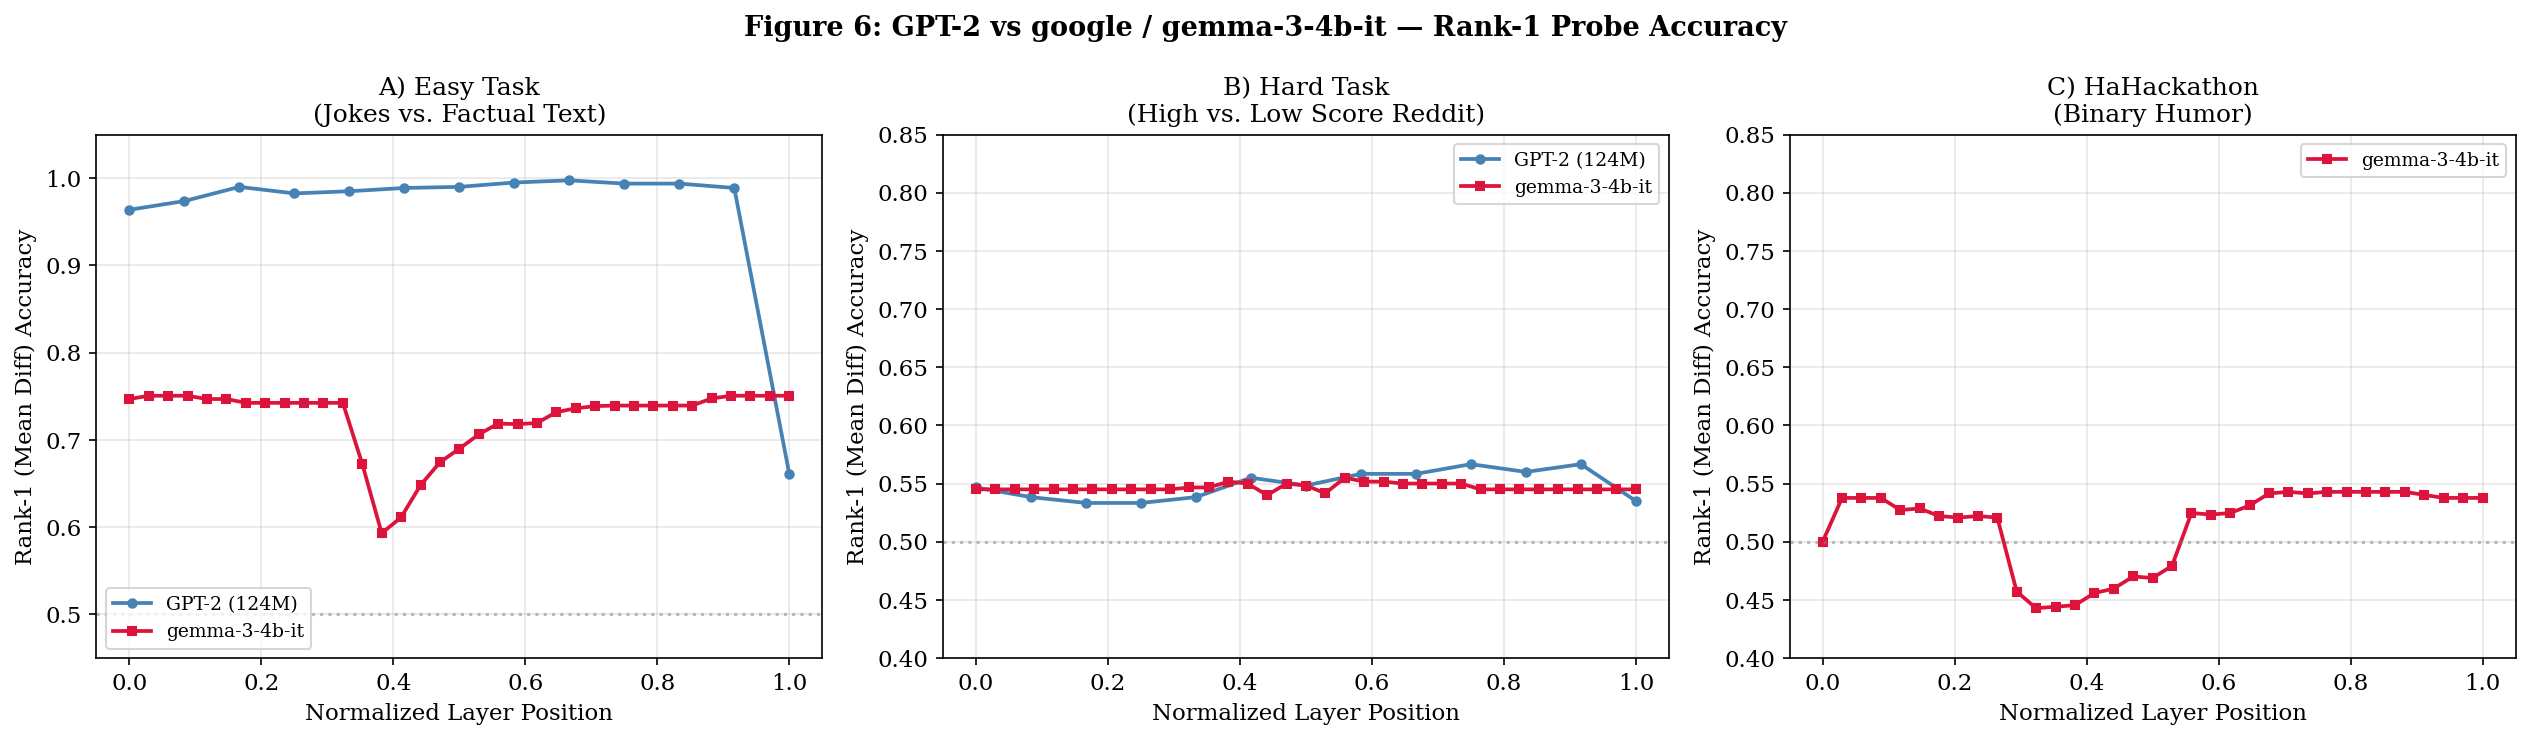
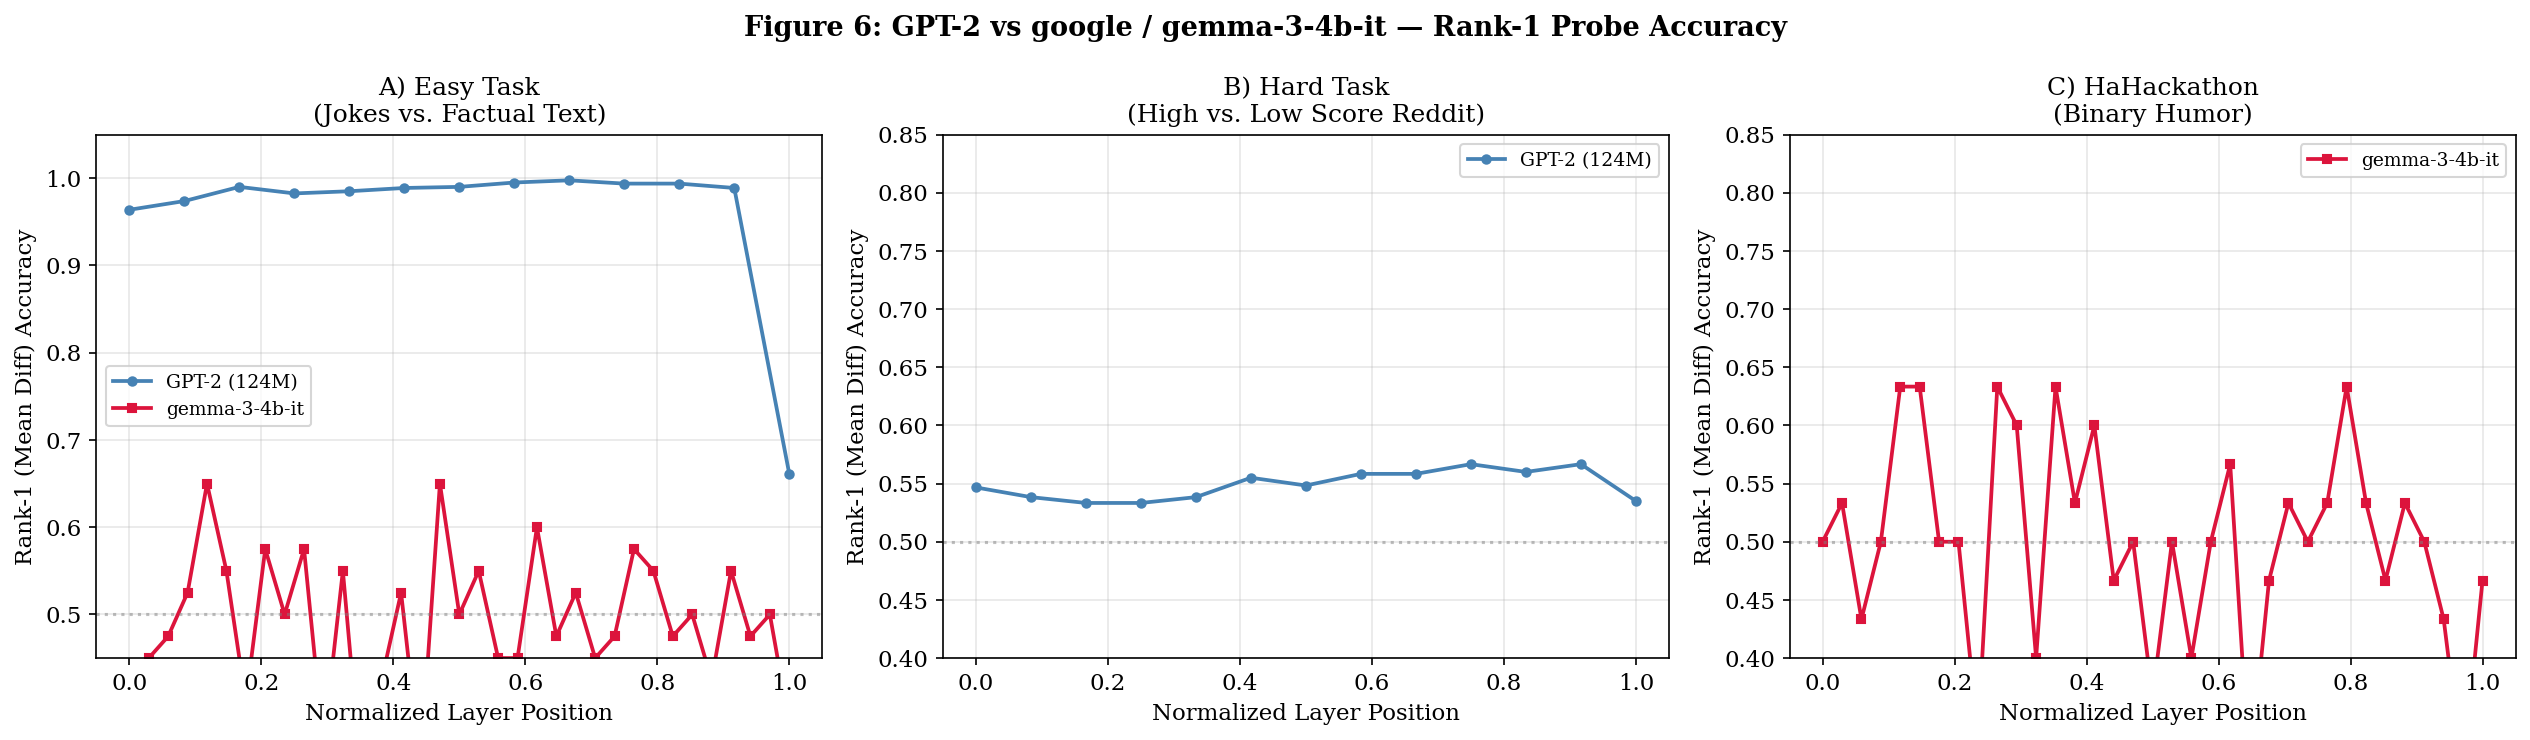
Week 2 writeup and figure renumbering (10=MLP vs LR, 11=scale)
Adds REPORT_WEEK2.md, updated figure6/8 plots, and new figures 10
(MLP vs LR by layer) and 11 (4B vs 12B scale comparison). Renames
from figure9/10 to avoid conflict with partner's figure9_steering.

diff --git a/src/visualize_new.py b/src/visualize_new.py
@@ -295,6 +295,109 @@ def plot_figure8(model_id, new_results):
 
 
 # ---------------------------------------------------------------------------
+# Figure 10: MLP vs LR probe accuracy by layer (HaHackathon)
+# ---------------------------------------------------------------------------
+
+def plot_figure9_mlp_vs_lr(model_id, week2_results):
+    """
+    Two lines: full-rank LR accuracy and MLP accuracy by absolute layer index
+    for the HaHackathon task. Shows that MLP never beats LR.
+    Data from week2_results (which has mlp_probe keys).
+    """
+    haha = week2_results.get("tasks", {}).get("hahackathon", {}).get("probe_by_layer", [])
+    if not haha:
+        print("No HaHackathon week2 data found, skipping Figure 10.")
+        return
+
+    layers = [e["layer"] for e in haha]
+    lr_accs = [e["probes"][-1]["accuracy"] for e in haha]
+    mlp_accs = [e["mlp_probe"]["accuracy"] for e in haha if "mlp_probe" in e]
+
+    if len(mlp_accs) != len(layers):
+        print("mlp_probe missing on some layers, skipping Figure 10.")
+        return
+
+    fig, ax = plt.subplots(figsize=(10, 6))
+
+    ax.plot(layers, lr_accs, "o-", color="steelblue", label="Linear (LR)",
+            markersize=4, linewidth=1.8)
+    ax.plot(layers, mlp_accs, "s--", color="crimson", label="Non-linear (MLP, 256 units)",
+            markersize=4, linewidth=1.8)
+    ax.axhline(y=0.5, color="gray", linestyle="--", linewidth=1, alpha=0.6, label="Chance (0.5)")
+
+    # Annotate peak LR layer
+    peak_idx = int(np.argmax(lr_accs))
+    ax.annotate(
+        f"LR peak: Layer {layers[peak_idx]} ({lr_accs[peak_idx]:.3f})",
+        xy=(layers[peak_idx], lr_accs[peak_idx]),
+        xytext=(layers[peak_idx] + 2, lr_accs[peak_idx] + 0.02),
+        fontsize=9, color="steelblue",
+        arrowprops=dict(arrowstyle="->", color="steelblue", lw=1.2),
+    )
+
+    ax.set_xlabel("Layer Index (absolute)")
+    ax.set_ylabel("Probe Accuracy (HaHackathon)")
+    model_label = model_id.replace("/", " / ")
+    ax.set_title(f"Figure 10: Linear vs. Non-Linear Probe by Layer — {model_label}\n"
+                 f"HaHackathon Task (MLP never beats LR)")
+    ax.set_ylim(0.4, 0.85)
+    ax.legend()
+    ax.grid(True, alpha=0.3)
+
+    plt.tight_layout()
+    out_path = PLOTS_DIR / f"figure10_mlp_vs_lr_{model_slug(model_id)}.png"
+    plt.savefig(out_path, bbox_inches="tight")
+    plt.close()
+    print(f"Saved {out_path.name}")
+
+
+# ---------------------------------------------------------------------------
+# Figure 10: 4B vs 12B HaHackathon accuracy by normalized layer
+# ---------------------------------------------------------------------------
+
+def plot_figure10_scale_comparison(results_4b, results_12b):
+    """
+    HaHackathon full-rank accuracy by normalized layer position (0..1)
+    for Gemma 4B and Gemma 12B. Shows scale doesn't help.
+    """
+    fig, ax = plt.subplots(figsize=(10, 6))
+
+    for results, color, marker, label in [
+        (results_4b,  "steelblue", "o-", "Gemma 3 4B (2560 dim, 35 layers)"),
+        (results_12b, "darkorange", "s-", "Gemma 3 12B (3840 dim, 48 layers)"),
+    ]:
+        haha = results.get("tasks", {}).get("hahackathon", {}).get("probe_by_layer", [])
+        if not haha:
+            continue
+        accs = [e["probes"][-1]["accuracy"] for e in haha]
+        x = np.linspace(0, 1, len(accs))
+        peak_idx = int(np.argmax(accs))
+        ax.plot(x, accs, marker, color=color, label=label, markersize=4, linewidth=1.8)
+        ax.annotate(
+            f"{accs[peak_idx]:.3f}",
+            xy=(x[peak_idx], accs[peak_idx]),
+            xytext=(x[peak_idx] + 0.03, accs[peak_idx] + 0.015),
+            fontsize=9, color=color,
+            arrowprops=dict(arrowstyle="->", color=color, lw=1.2),
+        )
+
+    ax.axhline(y=0.5, color="gray", linestyle="--", linewidth=1, alpha=0.6, label="Chance (0.5)")
+    ax.set_xlabel("Normalized Layer Position")
+    ax.set_ylabel("Full-Rank Probe Accuracy (HaHackathon)")
+    ax.set_title("Figure 11: Scaling Gemma 3 — 4B vs. 12B on HaHackathon\n"
+                 "3× more parameters gains essentially nothing")
+    ax.set_ylim(0.4, 0.85)
+    ax.legend()
+    ax.grid(True, alpha=0.3)
+
+    plt.tight_layout()
+    out_path = PLOTS_DIR / "figure11_scale_comparison_gemma3.png"
+    plt.savefig(out_path, bbox_inches="tight")
+    plt.close()
+    print(f"Saved {out_path.name}")
+
+
+# ---------------------------------------------------------------------------
 # Main
 # ---------------------------------------------------------------------------
 
@@ -396,6 +499,19 @@ def main(model_id, mock=False):
 
     if transfer_results is not None:
         plot_figure7(model_id, transfer_results)
+
+    # Week 2 figures — require week2_results and 12B results
+    week2_results_path = RESULTS_DIR / f"{slug}_week2_results.json"
+    results_12b_path = RESULTS_DIR / "google-gemma-3-12b-it_results.json"
+
+    if week2_results_path.exists():
+        week2_results = load_json(week2_results_path)
+        plot_figure9_mlp_vs_lr(model_id, week2_results)
+        if results_12b_path.exists():
+            results_12b = load_json(results_12b_path)
+            plot_figure10_scale_comparison(week2_results, results_12b)
+    else:
+        print(f"Note: {week2_results_path.name} not found, skipping Figures 10 & 11.")
 
     print("Done.")
 

diff --git a/REPORT_WEEK2.md b/REPORT_WEEK2.md
@@ -1,0 +1,206 @@
+# Week 2: Scaling, Non-Linearity, and Steering Humor in Gemma 3
+
+## 1. Executive Summary
+
+Building on week 1's finding that humor style is rank-1 separable in GPT-2 but humor quality is not, we extend our analysis to Gemma 3 (4B and 12B) with four new experiments: (A) layer-by-layer accuracy curves, (C) non-linear MLP probing, (D) scaling to 12B parameters, and (E) activation steering.
+
+**Key findings**:
+- Humor is **linearly encoded** in Gemma 3 — an MLP probe is no better than logistic regression at every layer for both 4B and 12B.
+- Humor signal **peaks at mid-layers** (layer 18 of 35 for Gemma 4B) then degrades, unlike style signal which is flat from the start.
+- **Scale does not help**: Gemma 3 12B (48 layers, 3840 hidden dim) achieves 65.8% on HaHackathon — essentially identical to 4B's 65.6%.
+- **Activation steering produces coherent but not noticeably funnier outputs**. The humor direction exists geometrically but is too weak to redirect generation. Evaluation of steering quality is ongoing.
+
+---
+
+## 2. Motivation
+
+The TA's feedback on week 1 identified five areas to address:
+1. Clarify which layer results are reported for
+2. Add a random label baseline (partner's contribution — see section 3)
+3. Test non-linear (MLP) probing
+4. Try a larger model (~10B)
+5. Begin activation steering
+
+This report covers items 1, 3, 4, and 5. Item 2 was handled by a partner.
+
+---
+
+## 3. Background: Random Label Baseline (Partner's Contribution)
+
+To validate that our 65.6% HaHackathon accuracy reflects real signal and not dataset artifacts, a partner ran probing with shuffled labels on the same texts:
+
+| Condition | Mean-Diff Acc | Full-Rank LR Acc |
+|-----------|--------------|-----------------|
+| Real labels | 0.509 | 0.660 |
+| Shuffled labels (same humor texts) | 0.501 | 0.545 |
+| Random labels (non-humor texts) | 0.667 | 0.600 |
+
+The shuffled-label condition (54.5%) is the correct control — same texts, randomized labels. The 65.6% vs 54.5% gap (~11pp) confirms the real humor signal is genuine and not an artifact of the dataset. The non-humor random baseline (60–67%) is elevated due to latent stylistic separation between text corpora, not humor signal.
+
+---
+
+## 4. Experiment A: Layer Curves (Figure 8)
+
+### What We Did
+
+Plotted full-rank probe accuracy at every layer (0–34) for all three tasks using the existing week 1 results. No new Modal run was needed — the data already existed.
+
+### Results
+
+| Task | Best Layer | Best Accuracy | Layer 0 Accuracy |
+|------|-----------|--------------|-----------------|
+| Easy (jokes vs factual) | ~8 | 75.3% | 57.9% |
+| Hard (high vs low Reddit) | 9 | 55.2% | ~50% |
+| HaHackathon (binary humor) | **18** | **65.6%** | 57.9% |
+
+**Easy task**: Flat across all 35 layers at ~75%. Style information is captured from the very first layer and does not improve. The model immediately encodes joke register.
+
+**Hard task**: Flat at near-chance (~55%) across all layers. No layer contains meaningful quality signal.
+
+**HaHackathon**: Rises from 57.9% (layer 0) → 65.6% (layer 18) → falls back to ~62% at layer 34. Humor signal builds gradually through the middle layers, suggesting higher-level processing is involved relative to pure style.
+
+The layer 18 peak for HaHackathon motivated our choice of steering target.
+
+### Figure 8
+See `results/plots/figure8_layer_curves_google-gemma-3-4b-it.png`.
+
+---
+
+## 5. Experiment C: Non-Linear (MLP) Probe
+
+### What We Did
+
+Added an MLPClassifier probe (1 hidden layer, 256 units, early stopping) alongside the existing logistic regression probe at every layer, for all three tasks. Run on Gemma 3 4B via Modal (A10G).
+
+### Setup
+
+```
+StandardScaler → MLPClassifier(hidden_layer_sizes=(256,), max_iter=500, early_stopping=True)
+```
+No PCA. Operates on full hidden dim (2560 for 4B).
+
+### Results at HaHackathon Best Layer (Layer 18)
+
+| Probe | Accuracy |
+|-------|---------|
+| Linear (LR) | 65.6% |
+| Non-linear (MLP) | 65.3% |
+| Gap (MLP − LR) | **−0.3pp** |
+
+MLP is marginally *worse* than linear at layer 18 and at every other layer. The pattern holds across all 35 layers — MLP never beats LR by more than ~1%.
+
+### Interpretation
+
+Humor is **linearly encoded** in Gemma 3's activation space. There is no nonlinear structure that a shallow MLP can exploit. This has two implications:
+1. The representation is geometrically simple — humor information lives along a single direction.
+2. We can use the LR coefficient vector as a valid steering direction (no need to extract gradients from the MLP).
+
+---
+
+## 6. Experiment D: Gemma 3 12B Probing
+
+### Setup
+
+- Model: `google/gemma-3-12b-it` (48 layers, hidden dim 3840, ~24GB in bfloat16)
+- GPU: A100-40GB (A10G is too tight for 12B inference)
+- Tasks: easy, hard, hahackathon with MLP probe enabled
+- Estimated cost: ~$8–10
+
+### Results
+
+| Task | Best Layer | Best LR Acc | Best MLP Acc |
+|------|-----------|------------|-------------|
+| Easy | 8 | 75.1% | ~74% |
+| Hard | 13 | 54.7% | ~54% |
+| HaHackathon | **28** | **65.8%** | **65.6%** |
+
+**Versus Gemma 4B:**
+
+| Model | HaHackathon Best | Hard Best | Easy Best |
+|-------|-----------------|-----------|-----------|
+| Gemma 3 4B | 65.6% (layer 18) | 55.2% (layer 9) | 75.3% |
+| Gemma 3 12B | 65.8% (layer 28) | 54.7% (layer 13) | 75.1% |
+| Δ | **+0.2pp** | −0.5pp | −0.2pp |
+
+### Interpretation
+
+Scale does not help. A 3× increase in parameters gains essentially nothing on humor signal. The ceiling appears to be around 65–66% for this task with linear probing, regardless of model size.
+
+The best layer shifts deeper in the 12B model (layer 28 vs 18), proportionally similar (28/48 ≈ 58% vs 18/35 ≈ 51%), suggesting the "humor layer" scales with depth roughly proportionally.
+
+MLP ≤ LR at every layer for 12B as well — the linearity finding generalizes across scale.
+
+---
+
+## 7. Experiment E: Activation Steering
+
+### Setup
+
+- Model: `google/gemma-3-4b-it`
+- Steering layer: 18 (0-indexed hook on `model.model.language_model.layers[17]`)
+- Direction: LR coefficient vector back-projected to original activation space, normalized to unit vector
+- Alphas: [−20, −10, 0, 10, 20, 30]
+- Prompts: 5 neutral prompts (e.g., "The thing about Mondays is", "Scientists have recently discovered that")
+- Completions: 3 per (prompt, alpha) = 90 total
+- Generation: temperature=0.8, top_p=0.9, max_new_tokens=80
+
+**Why LR direction, not mean-diff**: Mean-diff accuracy at layer 18 is only 54.3% (barely above chance), even though full-rank LR achieves 65.6%. The humor signal at layer 18 is not along the centroid-difference axis — it requires the full high-dimensional structure that LR learns.
+
+**Note on architecture**: Gemma 3 4B is a multimodal model. The transformer layers are at `model.model.language_model.layers`, not `model.model.layers` as in Gemma 2. This required a dynamic layer-finding fix.
+
+### Qualitative Results
+
+Outputs are coherent across all alpha values. Example for "The thing about Mondays is":
+
+**alpha=−20**: "...that they're just…Monday. It's a feeling, not a specific event. They're the default, the baseline..."
+
+**alpha=0**: "...that they just never seem to get easier, do they? I know I'm not the only one feeling this way..."
+
+**alpha=30**: "...that they always feel like the beginning of a long, slow decline. It's the day after the weekend, the day after the fun... But hey, at least there's coffee."
+
+The outputs shift slightly in tone at high alpha but do not become noticeably funnier. The steering direction does not produce dramatic qualitative differences.
+
+### Evaluation Status
+
+Quantitative evaluation of funniness is pending. The TA suggested using a large LLM (GPT-4 level) for pairwise judgment, comparing steered outputs against an unsteered best-of-N baseline. We are determining whether to use an external API for this evaluation before proceeding.
+
+---
+
+## 8. Overall Story
+
+Across all four experiments, a consistent picture emerges:
+
+**What Gemma 3 represents about humor:**
+- *Style* (joke vs factual text): strongly and linearly encoded from layer 0, ~75% accuracy
+- *Quality* (funny vs unfunny): essentially not encoded, ~55% at any layer
+- *Binary humor* (HaHackathon): weakly encoded, peaks at ~65.6% at layer 18, linearly
+
+**What doesn't help:**
+- Non-linear probes: MLP = LR, humor is geometrically simple
+- More parameters: 12B ≈ 4B, the ceiling is in the training signal not the model capacity
+- Steering: outputs stay coherent but the humor direction is too weak to redirect generation
+
+**The core finding**: LLMs learn to recognize the *form* of humor (joke-shaped text) but not the *content* (what makes something actually funny). This holds across model sizes and is not a limitation of linear probing — it reflects what the model has internalized.
+
+---
+
+## 9. Next Steps
+
+1. **Steering evaluation**: Pairwise LLM judge comparison of steered vs. unsteered outputs, with best-of-N baseline as the TA suggested
+2. **Visualization**: Update figures to include week 2 MLP vs LR comparison and 12B vs 4B comparison
+3. **Blog post**: Write up the full week 2 narrative for the class blog
+
+---
+
+## 10. Figures
+
+- `results/plots/figure6_new_model_google-gemma-3-4b-it.png` — GPT-2 vs Gemma 4B rank-1 accuracy by normalized layer
+- `results/plots/figure7_cross_transfer_google-gemma-3-4b-it.png` — Cross-dataset transfer heatmap
+- `results/plots/figure8_layer_curves_google-gemma-3-4b-it.png` — Full-rank accuracy by absolute layer (new)
+
+## 11. References
+
+1. Meaney, J.A., et al. (2021). SemEval 2021 Task 7: HaHackathon. arXiv:2105.03402
+2. Tigges, C., et al. (2023). Linear Representations of Sentiment in Large Language Models. arXiv:2310.15154
+3. Zou, A., et al. (2023). Representation Engineering. arXiv:2310.01405
+4. Engels, J., et al. (2024). Not All Language Model Features Are Linear. arXiv:2405.14860
